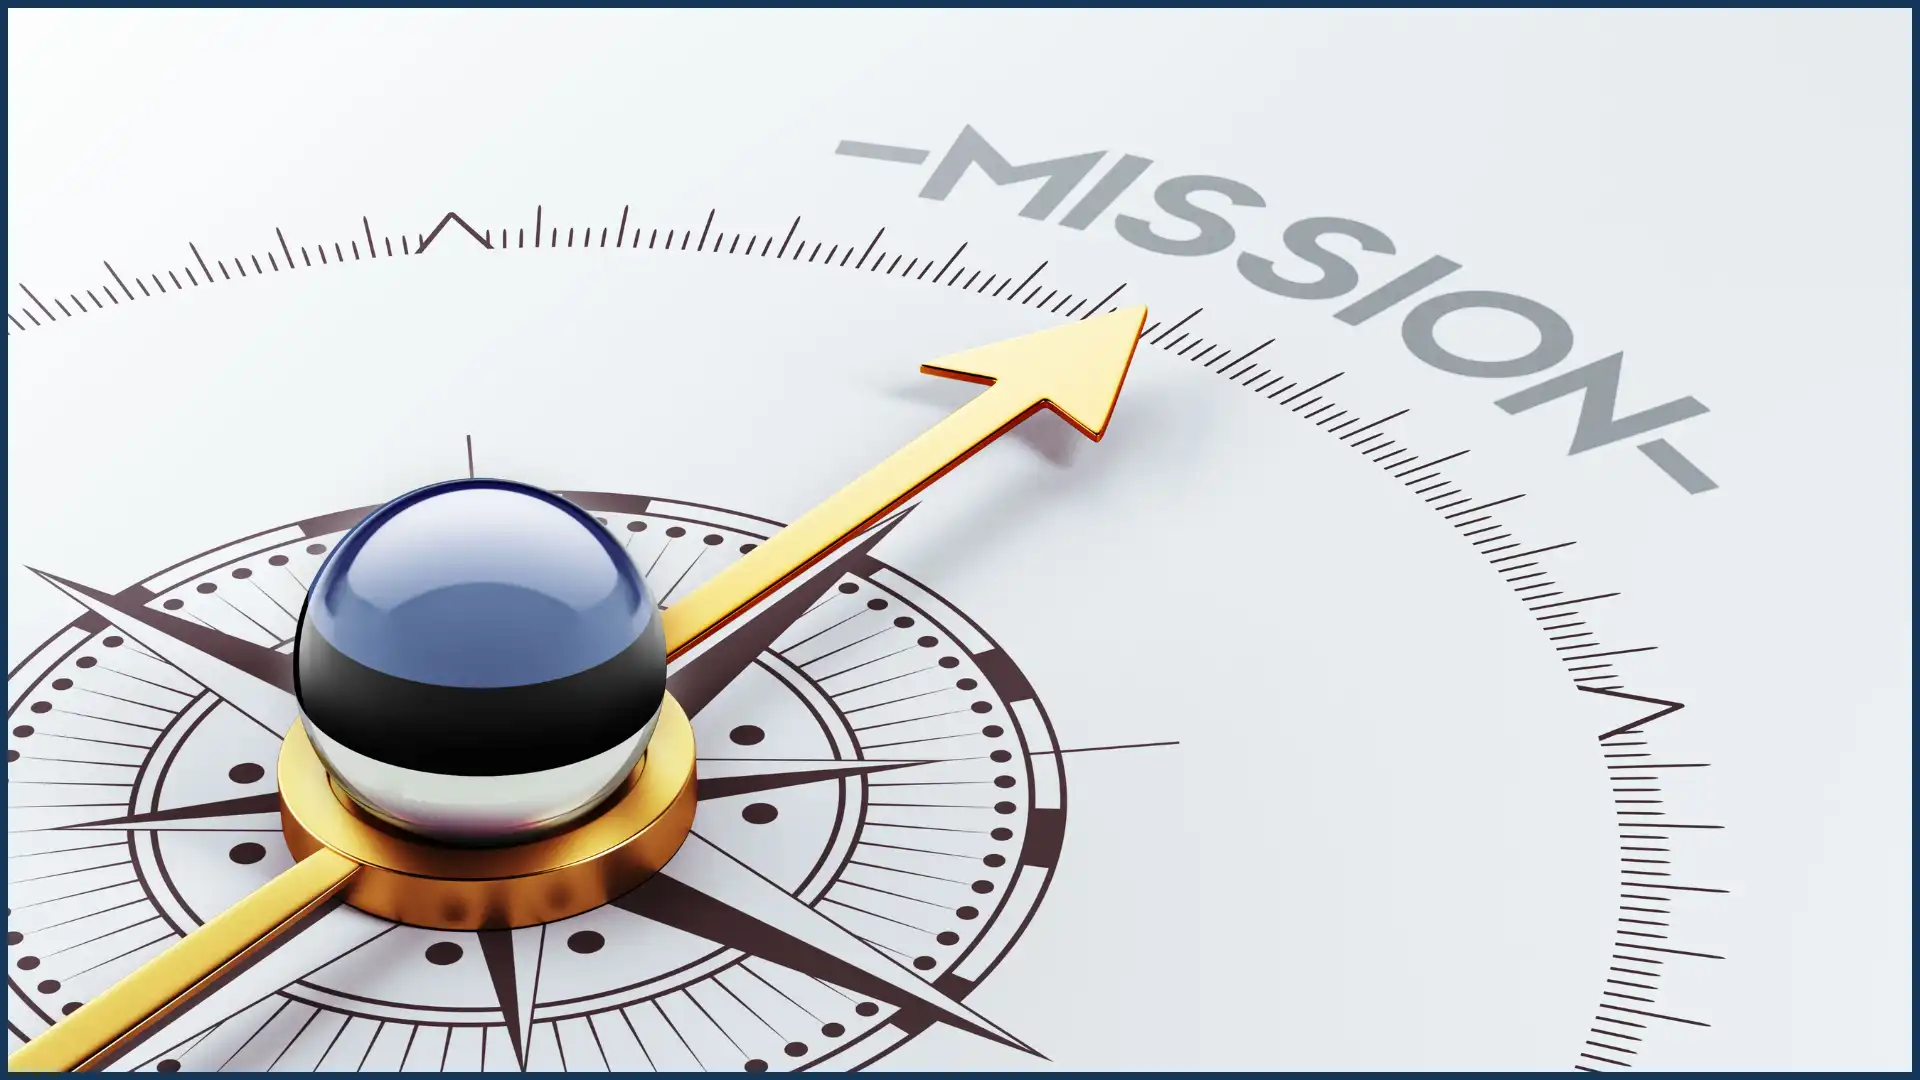
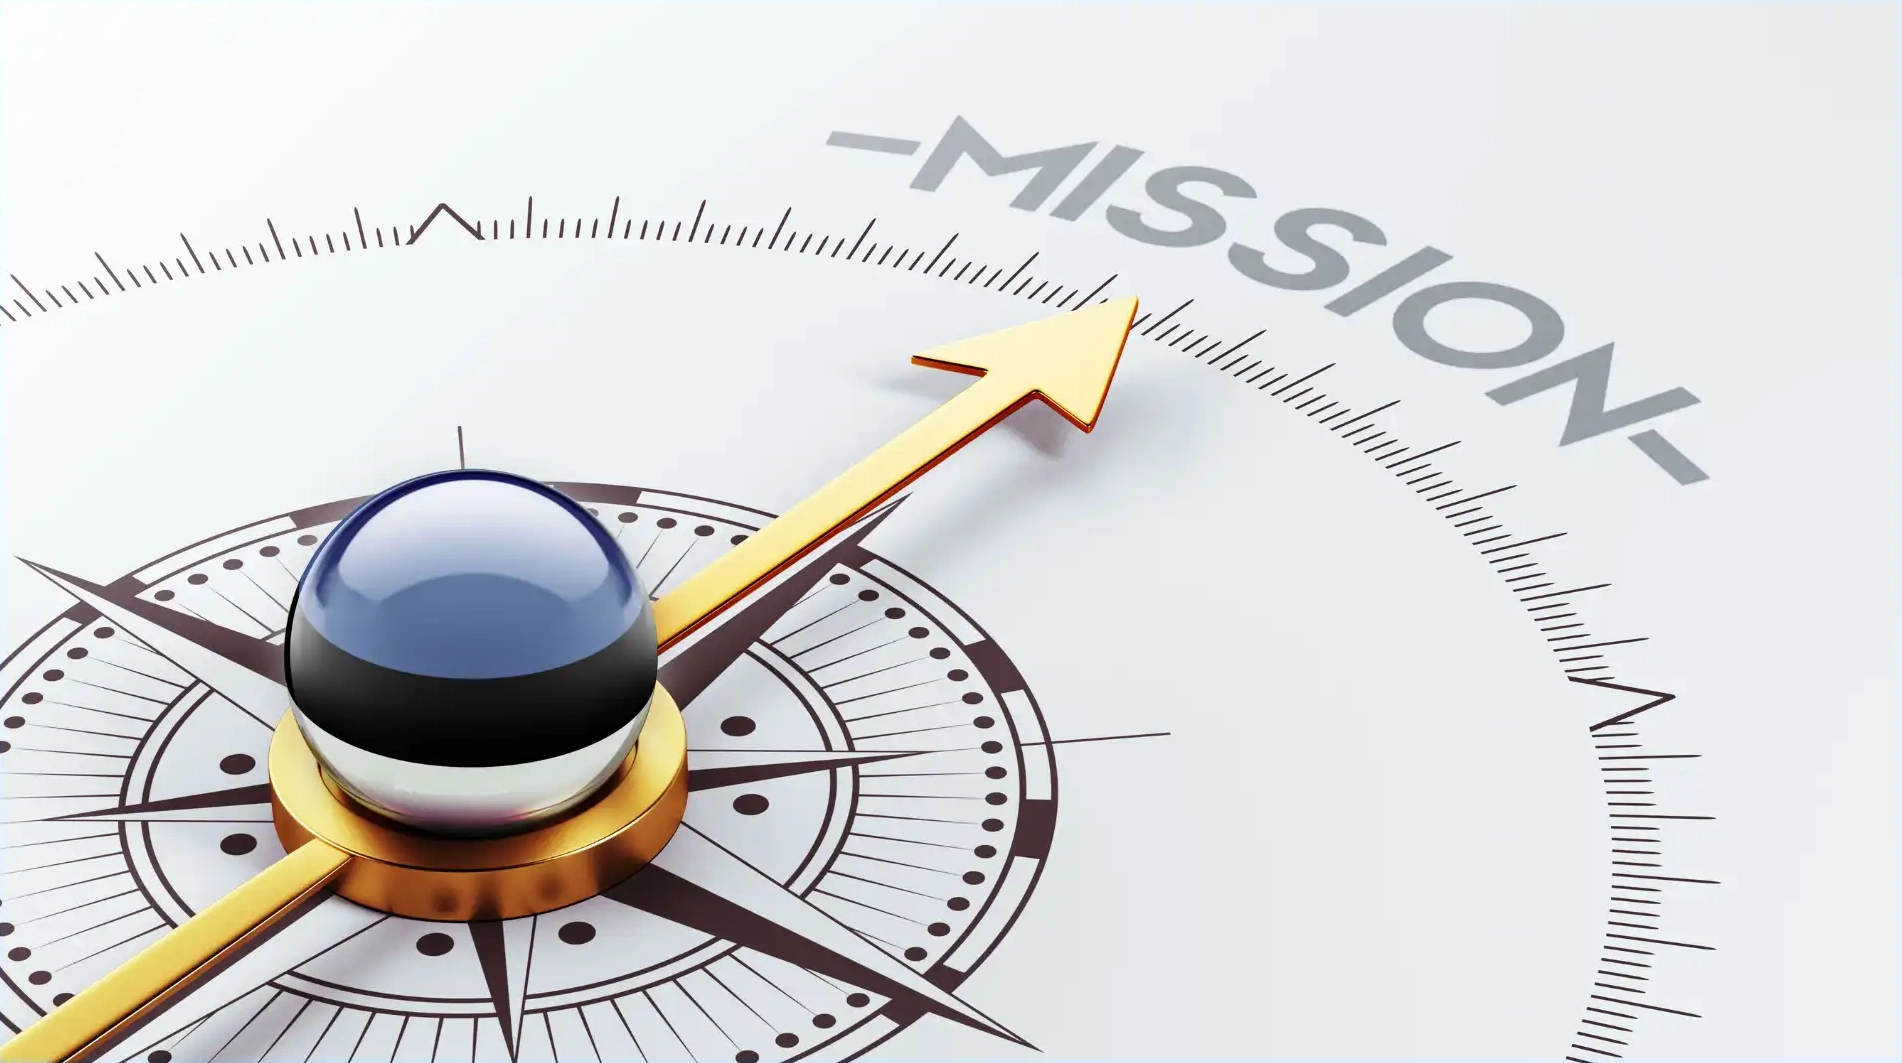
Fixed the images in mission vision values

diff --git a/src/components/ui/CarouselMVV/CarouselMVV.css b/src/components/ui/CarouselMVV/CarouselMVV.css
@@ -54,7 +54,7 @@
 .carousel-3d-item-content {
   width: 100%;
   height: 100%;
-  background-size: contain;
+  background-size: cover;
   background-position: center;
   border-radius: 20px;
   box-shadow: 0 20px 40px rgba(0, 0, 0, 0.3);
